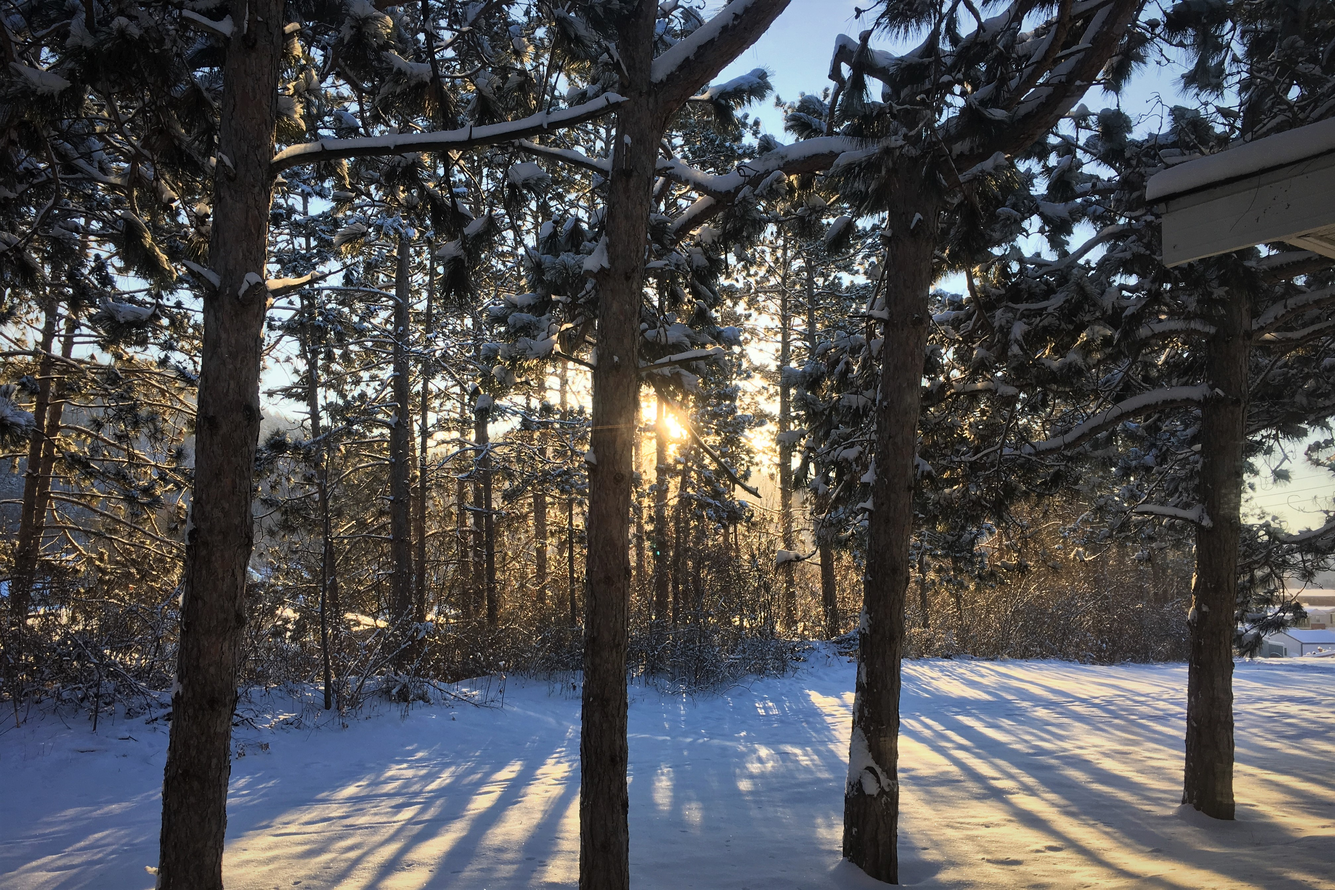
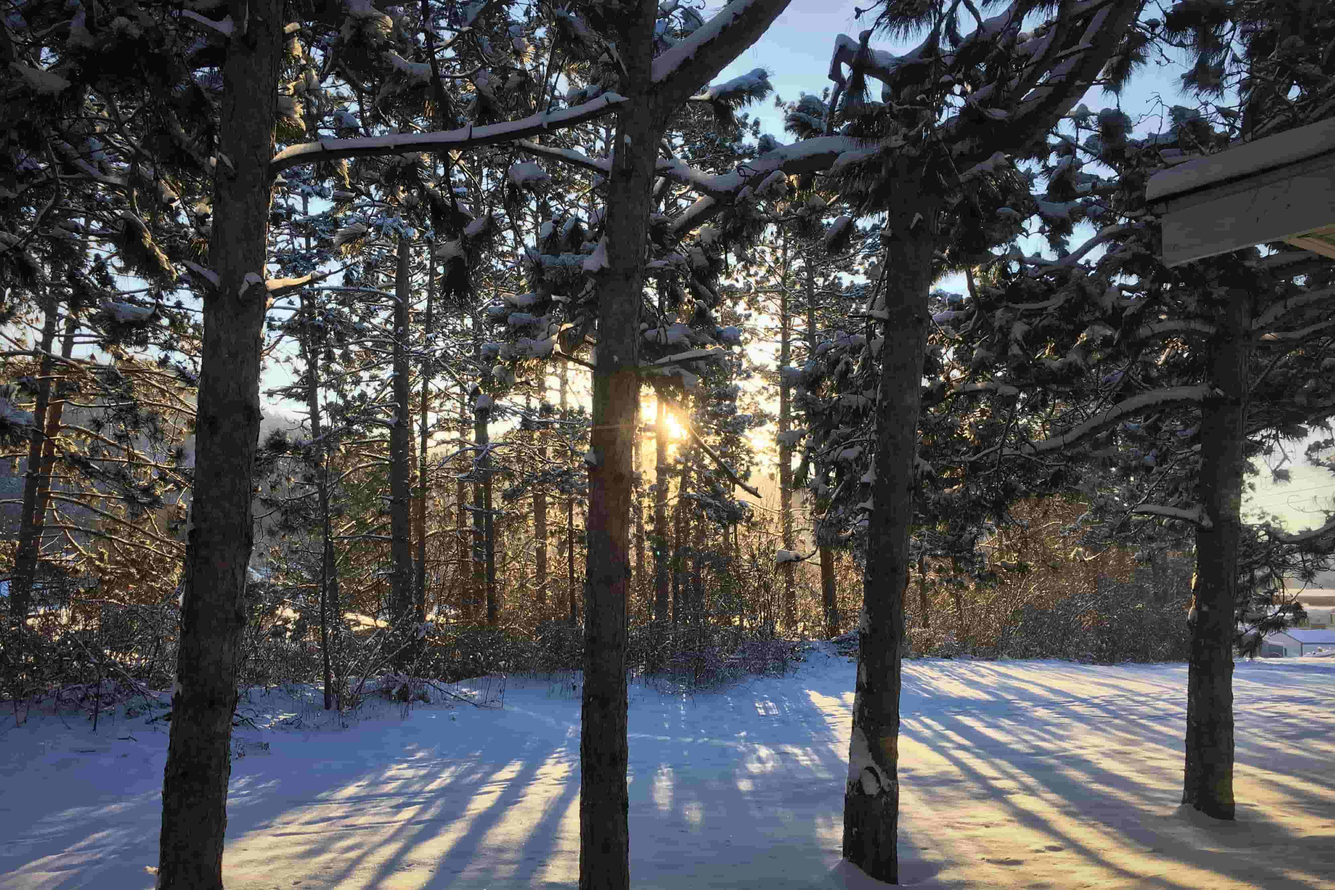
Compress images for contact, about-music, and about-travel.

diff --git a/assets/css/main.css b/assets/css/main.css
@@ -1664,7 +1664,7 @@ input, select, textarea {
 					}
 
 			.tiles article.northwestern_university_contact > .image:before {
-				background-image: url("../../images/contact/contact_northwestern.png");
+				background-image: url("../../images/contact/contact_northwestern.jpg");
 				background-color: #4E2A84;
 			}
 
